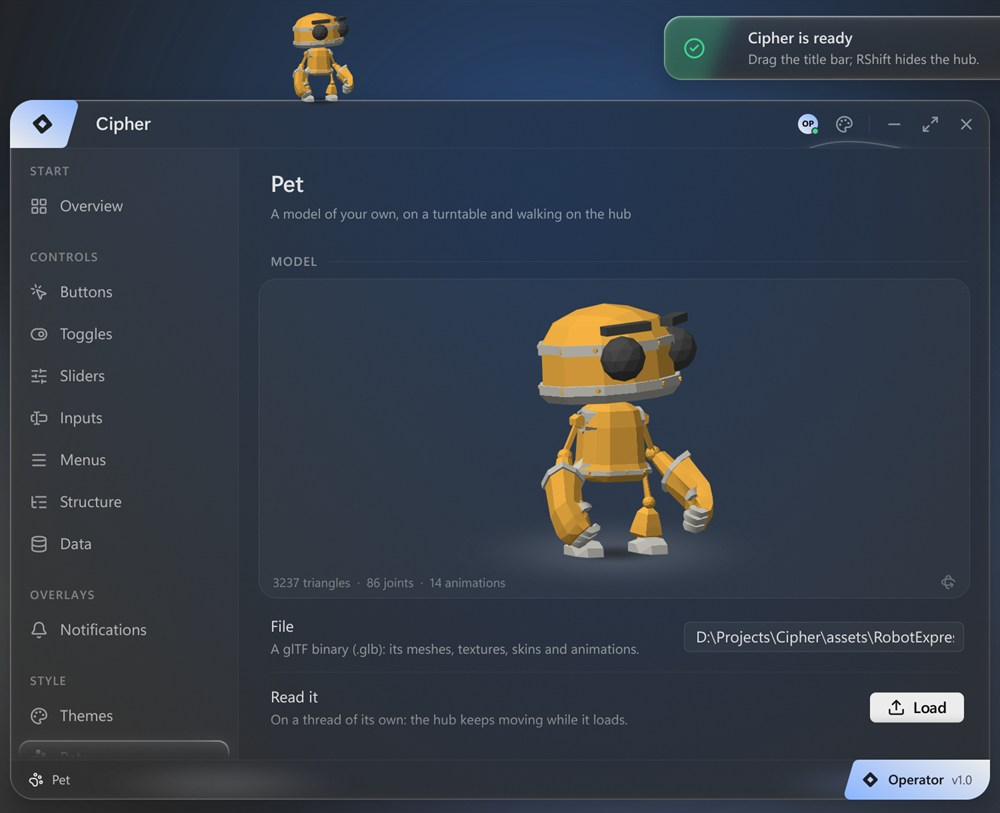
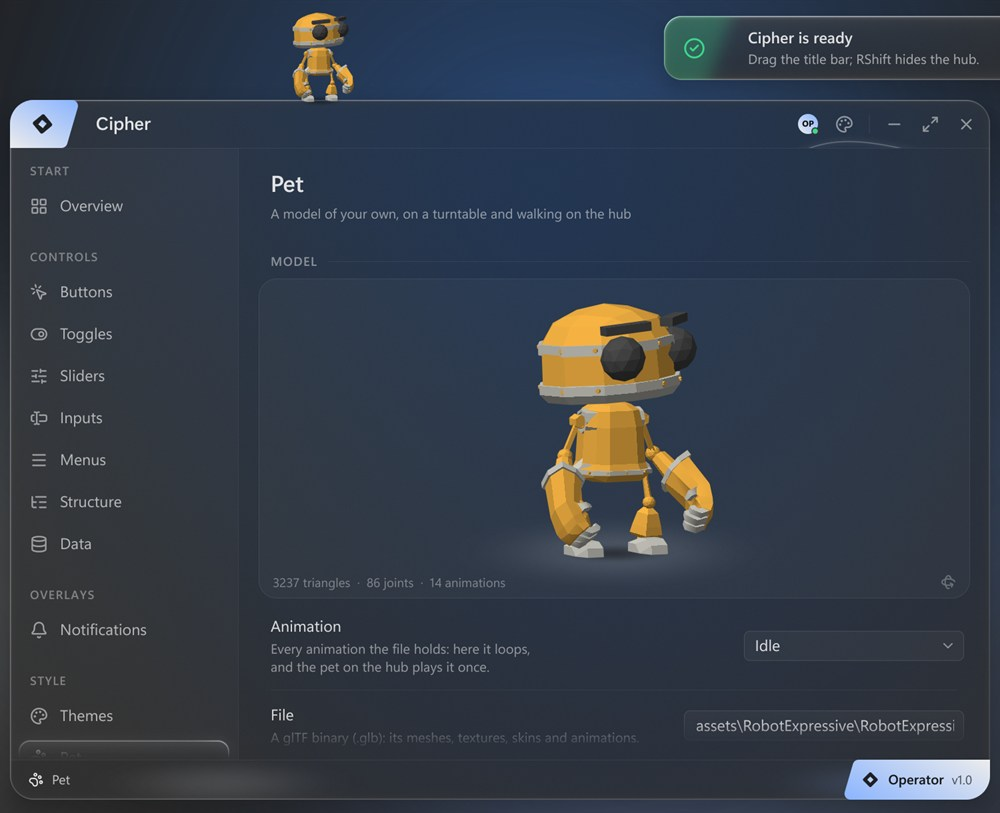
pet: Ui::PetPlay - it plays a chosen animation; hearts kept on the display; the demo's Animation row under the turntable
- Ui::PetPlay(animation): the pet plays one of its model's animations once where it stands - a crossfade in from what
  it was doing, its last pose held a moment, a crossfade back - then goes about its ways. In the air, carried or
  scattered, it plays it as soon as it stands again (an ask older than three seconds is let go).
- A pat's heart starts lower where the pet's head is near the display's top, so all of its way up is on the display.
  On the hub's top in the demo's layout it used to float off the top of the display at once.
- The demo: the Animation row is under the turntable, and a pick there plays on the hub too. It was below the File rows,
  scrolled away from the turntable, and the hub's pet did not change, so a pick seemed to do nothing.
- docs_pictures.ps1 runs the demo from the repository and gives it the model's path relative to it: the Pet tab shows
  the path. docs/turntable.jpg is captured again.

Changed region(s): [[0.279, 0.7688, 0.62, 0.8918], [0.713, 0.8303, 0.961, 0.9225], [0.682, 0.7688, 0.961, 0.7995]]

diff --git a/cipher/pet.cpp b/cipher/pet.cpp
@@ -65,7 +65,7 @@ namespace cipher
             Vec2 maskOrigin, maskSize;    // the grid: its top left from the feet, its size
             Vec2 pointer;                 // last frame's: the pointer's motion is the wind
             bool pointerPlaced = false;
-            enum class Mode : std::uint8_t { Idle, Walk, Pat, Cheer, Land, Carried, Fall, Jump } mode = Mode::Idle;
+            enum class Mode : std::uint8_t { Idle, Walk, Pat, Cheer, Land, Carried, Fall, Jump, Act } mode = Mode::Idle;
             float modeTime = 0.0f, modeLength = 4.0f;
             float target = 0.0f;          // walking: where to, on its surface
             int exit = 0;                 // walking: then step off its left end (-1) or right end (1), or jump (2)
@@ -85,6 +85,8 @@ namespace cipher
             };
             std::vector<Heart> hearts;
             double eggSeen = -1.0;
+            unsigned playSeen = 0;        // the last PetPlay it took up
+            int act = -1;                 // acting: the animation it plays (PetPlay)
             float Random()
             {
                 seed ^= seed << 13;
@@ -378,6 +380,13 @@ namespace cipher
     // dangles under the pointer) and lets it fall where it is dropped - thrown, as fast as it was moving. The footer's
     // secret makes it cheer. Every change of animation is a crossfade; it turns on a spring. Its window is above the
     // windows it walks on and under the menus and notifications that come later.
+    void Ui::PetPlay(int animation)
+    {
+        petPlay_ = animation;
+        petPlayAt_ = time_;
+        ++petPlaySerial_;
+    }
+
     void Ui::HubPet(Model& model, const PetSpec& spec)
     {
         const Id pid = HashLabel("##cipher-pet", 0x50455421u);
@@ -485,6 +494,20 @@ namespace cipher
             st.eggSeen = hubEgg_;
             if (spec.cheer >= 0 && st.on)
                 setMode(PetMode::Cheer, lengthOf(spec.cheer, 0.0f) + lengthOf(spec.cheerEnd, 0.0f));
+        }
+        // an animation asked for (PetPlay): once where it stands, its last pose held a moment; in the air, carried or
+        // apart, as soon as it stands again - an ask older than three seconds is let go
+        if (petPlaySerial_ != st.playSeen)
+        {
+            const bool valid = petPlay_ >= 0 && petPlay_ < model.Animations();
+            if (valid && st.on && !st.dragging && !spec.scattered && st.grainMode == PetState::Grains::None)
+            {
+                st.playSeen = petPlaySerial_;
+                st.act = petPlay_;
+                setMode(PetMode::Act, model.AnimationLength(st.act) + 0.6f);
+            }
+            else if (!valid || time_ - petPlayAt_ > 3.0)
+                st.playSeen = petPlaySerial_;
         }
         st.modeTime += dt_;
         // scattered: it crumbles into grains from its head down; asked back, they fly home from its feet up and it shows
@@ -689,6 +712,7 @@ namespace cipher
         case PetMode::Pat:
         case PetMode::Cheer:
         case PetMode::Land:
+        case PetMode::Act:
             yawTarget = st.mode == PetMode::Land ? st.yaw.target * 0.5f : 0.0f;
             if (st.modeTime >= st.modeLength)
                 setMode(PetMode::Idle, 3.0f + 4.0f * st.Random());
@@ -753,6 +777,7 @@ namespace cipher
         case PetMode::Fall: want = spec.fall >= 0 ? spec.fall : spec.carried; break;
         case PetMode::Jump: want = spec.jump >= 0 ? spec.jump : spec.carried; break;
         case PetMode::Cheer: want = st.modeTime < lengthOf(spec.cheer, 0.0f) || spec.cheerEnd < 0 ? spec.cheer : spec.cheerEnd; break;
+        case PetMode::Act: want = st.act; break;
         default: break;
         }
         if (want < 0)
@@ -774,7 +799,7 @@ namespace cipher
         }
         // the one-shot animations hold their last frame instead of starting over
         float t = st.animTime;
-        if (st.mode == PetMode::Pat || st.mode == PetMode::Cheer || st.mode == PetMode::Land)
+        if (st.mode == PetMode::Pat || st.mode == PetMode::Cheer || st.mode == PetMode::Land || st.mode == PetMode::Act)
             t = std::min(t, std::max(model.AnimationLength(st.anim) - 1e-3f, 0.0f));
         model.Pose(st.anim, t, st.from, st.fromTime, Smoothstep(0.0f, 1.0f, st.blend));
 
@@ -973,14 +998,16 @@ namespace cipher
                     Ball(dl, g.p, g.r, (g.color & 0x00FFFFFFu) | (alpha << 24));
             }
         }
-        // the hearts: up from its head, swaying, fading
+        // the hearts: up from its head, swaying, fading - lower where its head is near the display's top, so that all of
+        // their way up is on the display
         Vec2 head(st.feet.x, st.feet.y - H);
         model.Where("Head", head);
+        const float lower = std::max(0.0f, 14.0f - (head.y - 64.0f));
         st.hearts.erase(std::remove_if(st.hearts.begin(), st.hearts.end(), [&](const PetState::Heart& h) { return (float)time_ - h.born > 1.4f; }), st.hearts.end());
         for (const PetState::Heart& h : st.hearts)
         {
             const float age = ((float)time_ - h.born) / 1.4f;
-            const Vec2 at = head + h.at + Vec2(std::sin(age * 9.0f) * 4.0f, -18.0f - 46.0f * EaseOutCubic(age));
+            const Vec2 at = head + h.at + Vec2(std::sin(age * 9.0f) * 4.0f, lower - 18.0f - 46.0f * EaseOutCubic(age));
             const float a = Smoothstep(0.0f, 0.12f, age) * (1.0f - Smoothstep(0.55f, 1.0f, age));
             IconMotion mo;
             mo.scale = 0.7f + 0.3f * EaseOutBack(Clamp01(age * 3.0f));

diff --git a/demo/main.cpp b/demo/main.cpp
@@ -1043,6 +1043,12 @@ namespace
         cipher::Model& m = *gPet.model;
         ui.Group("Model");
         ui.ModelView("##pet-view", m, gPet.preview, 320.0f);
+        if (m.GetState() == cipher::Model::State::Ready && !gPet.items.empty())
+        {
+            ui.Row("Animation", "Every animation the file holds: here it loops, and the pet on the hub plays it once.");
+            if (ui.Combo("##pet-anim", &gPet.preview, gPet.items.data(), (int)gPet.items.size()))
+                ui.PetPlay(gPet.preview);
+        }
         ui.Row("File", "A glTF binary (.glb): its meshes, textures, skins and animations.");
         ui.InputText("##pet-path", &gPet.path, cipher::InputTextFlags_None, "C:\\path\\to\\model.glb");
         ui.Row("Read it", "On a thread of its own: the hub keeps moving while it loads.");
@@ -1050,12 +1056,6 @@ namespace
         {
             gPet.loaded = gPet.reported = false;
             m.Load(ui.Ctx().Textures(), gPet.path);
-        }
-        if (m.GetState() == cipher::Model::State::Ready && !gPet.items.empty())
-        {
-            ui.Group("Animation");
-            ui.Row("On the turntable", "Every animation the file holds: they crossfade on the hub, play here as they are.");
-            ui.Combo("##pet-anim", &gPet.preview, gPet.items.data(), (int)gPet.items.size());
         }
         ui.Group("Pet");
         ui.Row("Out and about", "At home on the hub, it walks the windows' tops and the bottom of the display; click it to pat it, drag to throw it.");

diff --git a/cipher/cipher.hpp b/cipher/cipher.hpp
@@ -298,6 +298,10 @@ namespace cipher
         // how many times it was patted.
         void HubPet(Model& model, const PetSpec& spec);
         int HubPats() const { return hubPats_; }
+        // The pet plays one of its model's animations (Model::AnimationName's index) once where it stands - a crossfade in
+        // from what it was doing and back out - then goes about its ways. In the air, carried or scattered, it plays it
+        // as soon as it stands again (within three seconds).
+        void PetPlay(int animation);
         // An element row: `title` (and `desc` under it) on the left, the next widget's control on the right - a
         // switch, a slider, a field, a button. Rows of one group share hairlines.
         void Row(const char* title, const char* desc = nullptr);
@@ -718,6 +722,9 @@ namespace cipher
         Rect hubAvatar_;          // the profile's avatar in the title bar: its menu's anchor
         std::string hubCrumb_;    // the selected tab of the hub content's first tab bar (the footer's path)
         int hubPats_ = 0;
+        int petPlay_ = -1;              // PetPlay: the animation asked for, and when
+        unsigned petPlaySerial_ = 0;
+        double petPlayAt_ = 0.0;
         // the floating windows (Begin / End) of this frame and the one before: where the pet can walk
         struct Floating
         {

diff --git a/README.md b/README.md
@@ -32,8 +32,9 @@ https://github.com/user-attachments/assets/9ea90683-8e81-433a-9102-507526d2c480
 - **Handwriting** (`handwriting.hpp`): any text written out in a joined cursive, as a pen lays it down - in liquid
   glass as in the intro, a solid tube, or plain lines for old devices - in a few lines of code.
 - **A 3D pet**: a glTF (`.glb`) loader with meshes, textures, skins and animations, drawn with the UI's own
-  triangles. The pet walks on the tops of windows, and you can pat, carry and throw it. It can also burst into small
-  balls with real physics that the pointer blows around, then rebuild cell by cell.
+  triangles. The pet walks on the tops of windows, and you can pat, carry and throw it, or have it play any animation
+  its model holds. It can also burst into small balls with real physics that the pointer blows around, then rebuild
+  cell by cell.
 
 Every graphics API Esia has: Direct3D 12, 11, 10 and 9, OpenGL and Vulkan.
 
